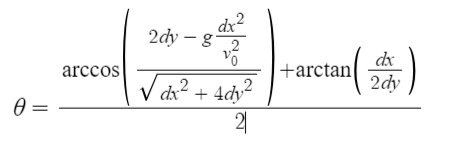
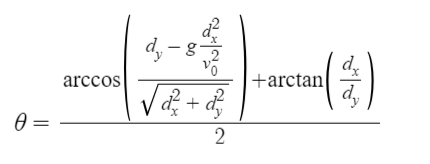
Cannon angle updates to shoot ball at mouse position

Changed region(s): [[0.0302, 0.0559, 0.907, 0.9231]]

diff --git a/speggle.py b/speggle.py
@@ -4,7 +4,7 @@ import pygame
 from datetime import datetime
 import time
 import os
-from math import sin, cos, atan, radians, degrees
+from math import sin, cos, atan, acos, radians, degrees, sqrt
 
 ####################################################################################################
 # Constants
@@ -16,9 +16,7 @@ SCREEN_HEIGHT = 800
 # The acceleration (in pixels per second squared) due to gravity
 G = 1
 # The initial velocity of the ball upon being shot by the cannon (in pixels per second)
-V_0 = 20
-# The terminal velocity of the ball
-V_T = 40
+V_0 = 15
 
 ####################################################################################################
 # Helper functions
@@ -95,7 +93,16 @@ class Cannon(GameObject):
         self.set_angle(90)
     else:
       flag = False
-      self.set_angle(degrees(atan(dx/dy)))
+      if(dx < 0):
+        flag = True
+        dx = -1 * dx
+      top_term = dy - (G * dx * dx / (V_0 * V_0))
+      bottom_term = sqrt(dx * dx + dy * dy)
+      side_term = atan(dx / dy)
+      angle = (acos(top_term / bottom_term) + atan(dx / dy)) / 2
+      if(flag):
+        angle = -1 * angle
+      self.set_angle(degrees(angle))
 
 class Indicator():
   delta_t = 1
